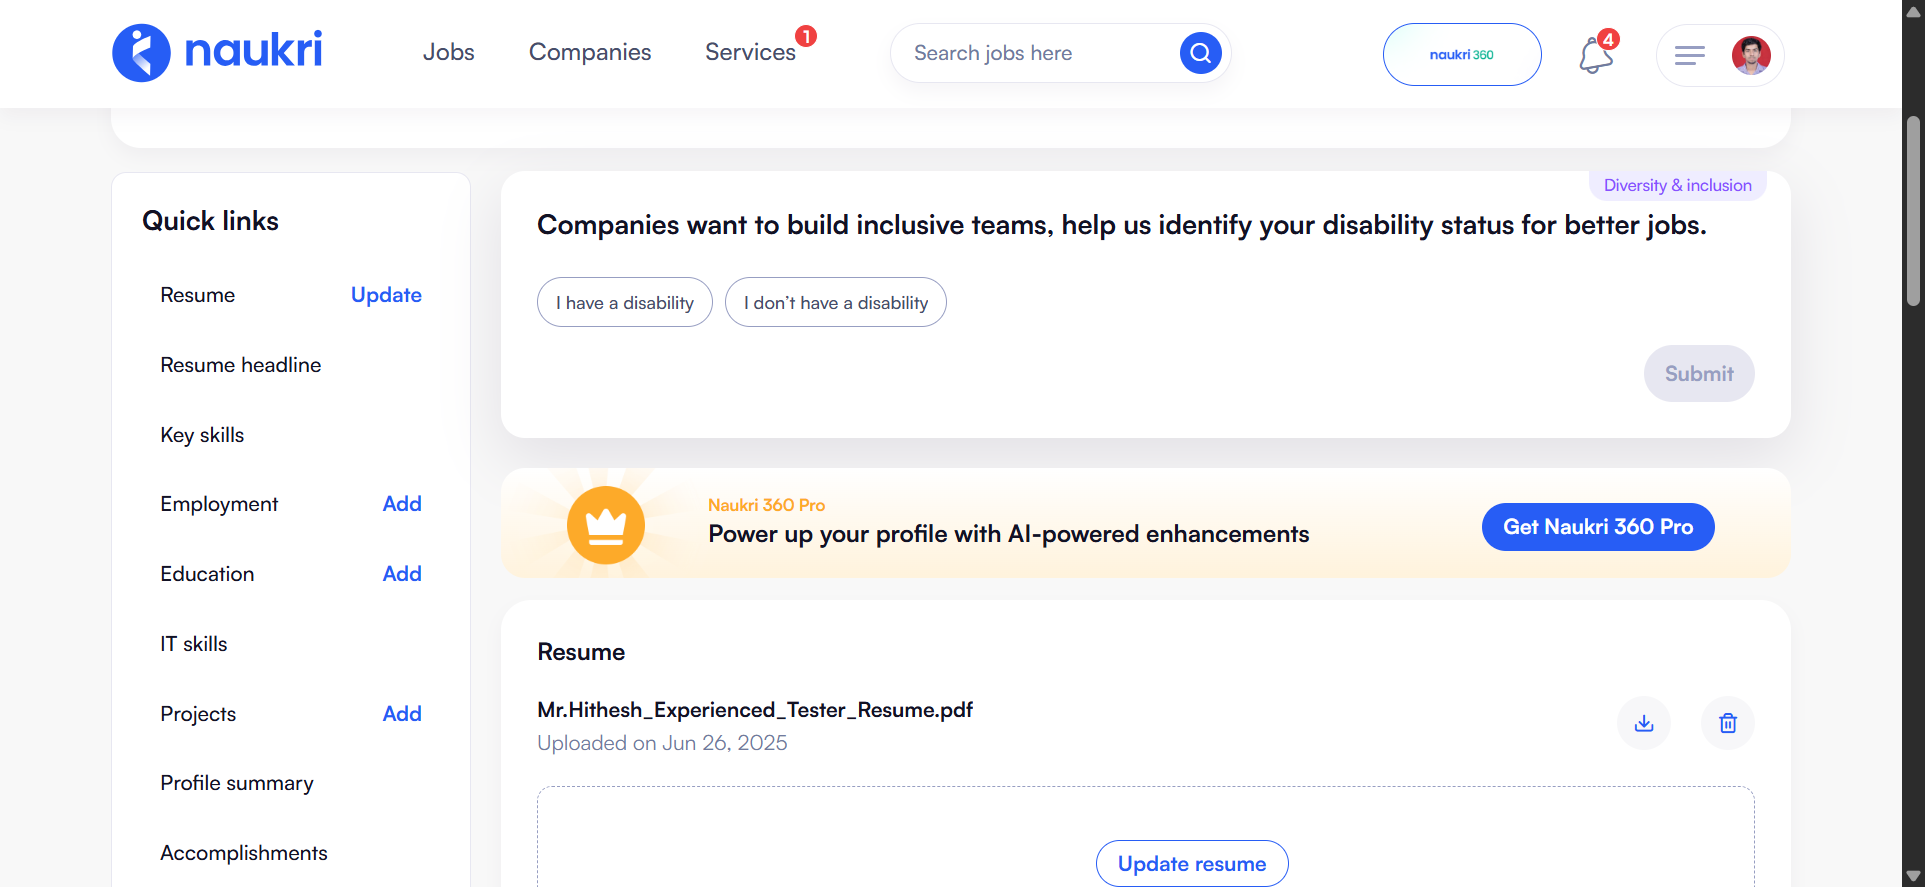
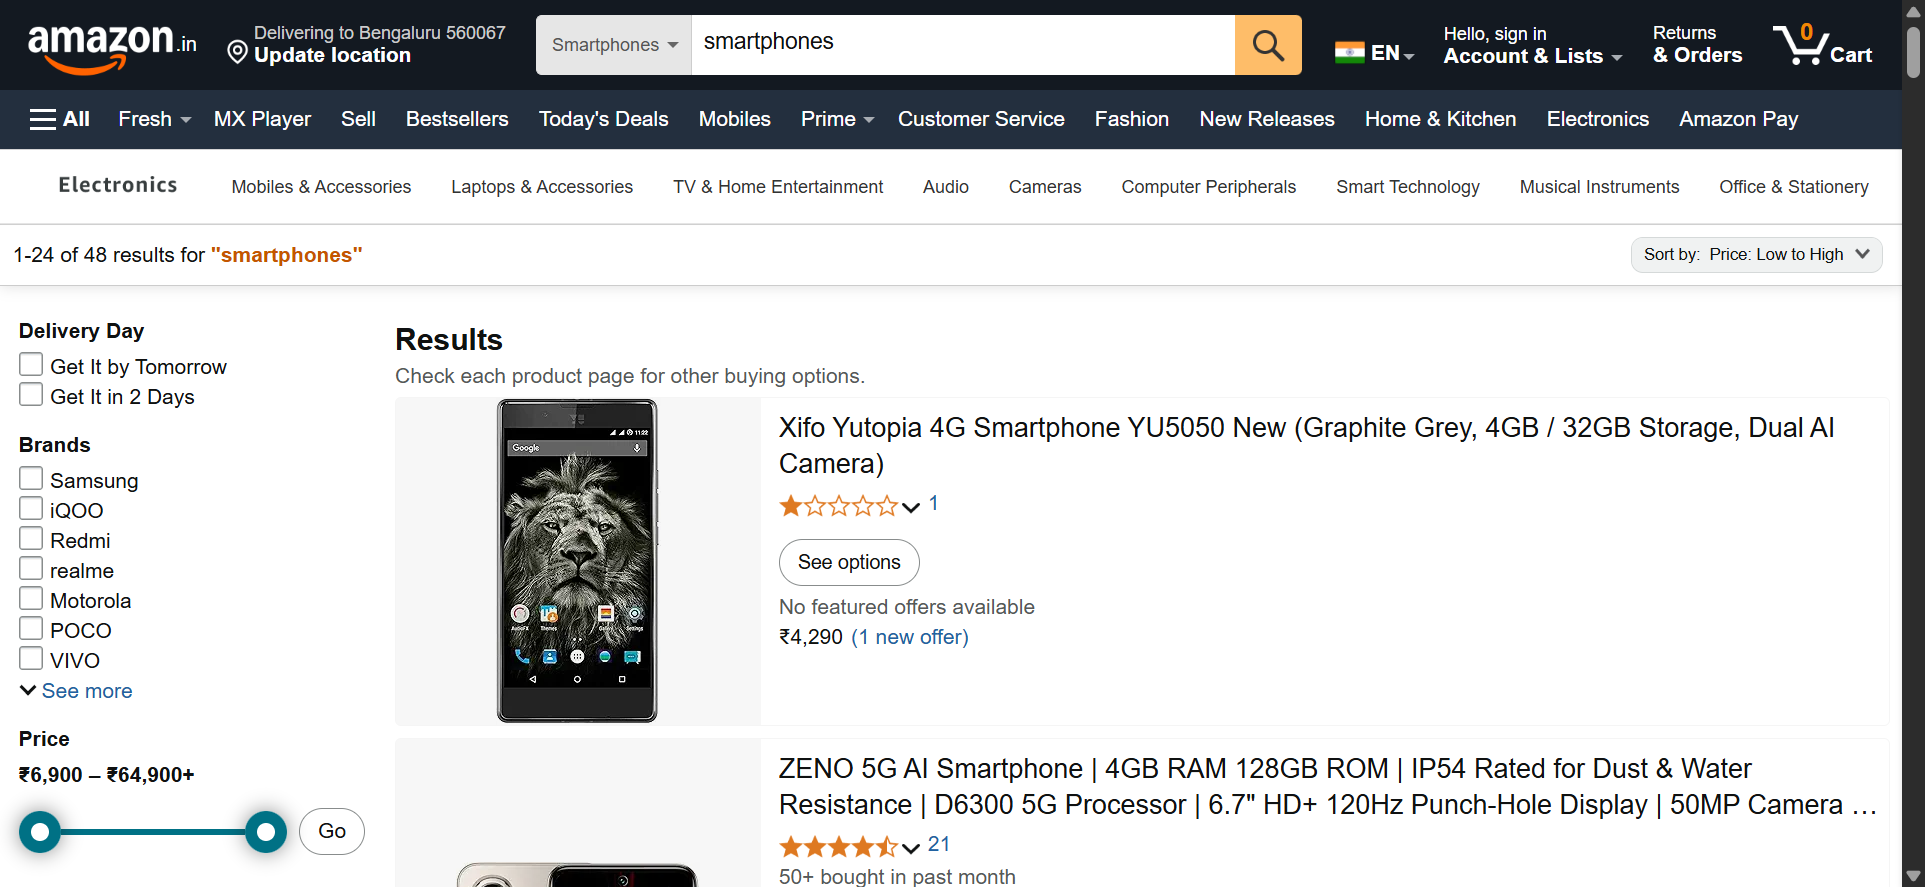
cbnvbm gfmdngfs

diff --git a/New/src/com/naukri/testscript/Naukri.java b/New/src/com/naukri/testscript/Naukri.java
@@ -74,10 +74,12 @@ public class Naukri {
 			driver = new ChromeDriver(options);
 
 			System.out.println("Navigating to Naukri.com...");
-			driver.get("https://www.naukri.com");
+			driver.get("https://www.amazon.in/s?k=smartphones&i=electronics&rh=n%3A1805560031%2Cp_n_pct-off-with-tax%3A2665399031%2Cp_n_feature_eighteen_browse-bin%3A27355812031&s=price-asc-rank&dc&ds=v1%3A1LnjVlgfcmLpzkRTyvVg9drUER1%2BtdJTV1L4PXz3uw4");
+			// driver.get("https://www.naukri.com");
 
 			System.out.println("Waiting for Login link...");
-			WebDriverWait wait = new WebDriverWait(driver, Duration.ofSeconds(60));
+			WebDriverWait wait = new WebDriverWait(driver, Duration.ofSeconds(10));
+			wait.until(ExpectedConditions.titleContains("Home | Mynaukri"));
 			wait.until(ExpectedConditions.visibilityOfElementLocated(By.linkText("Login"))).click();
 
 			System.out.println("Entering email...");
